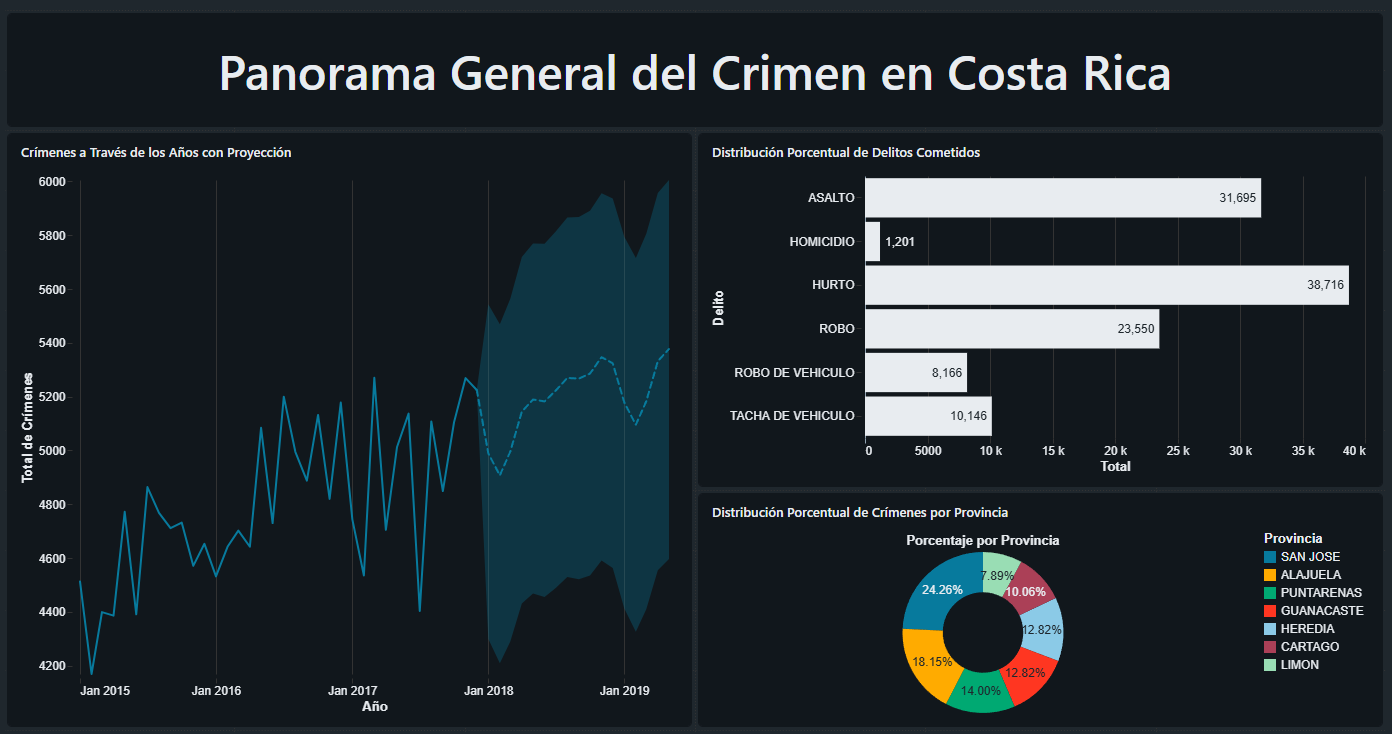
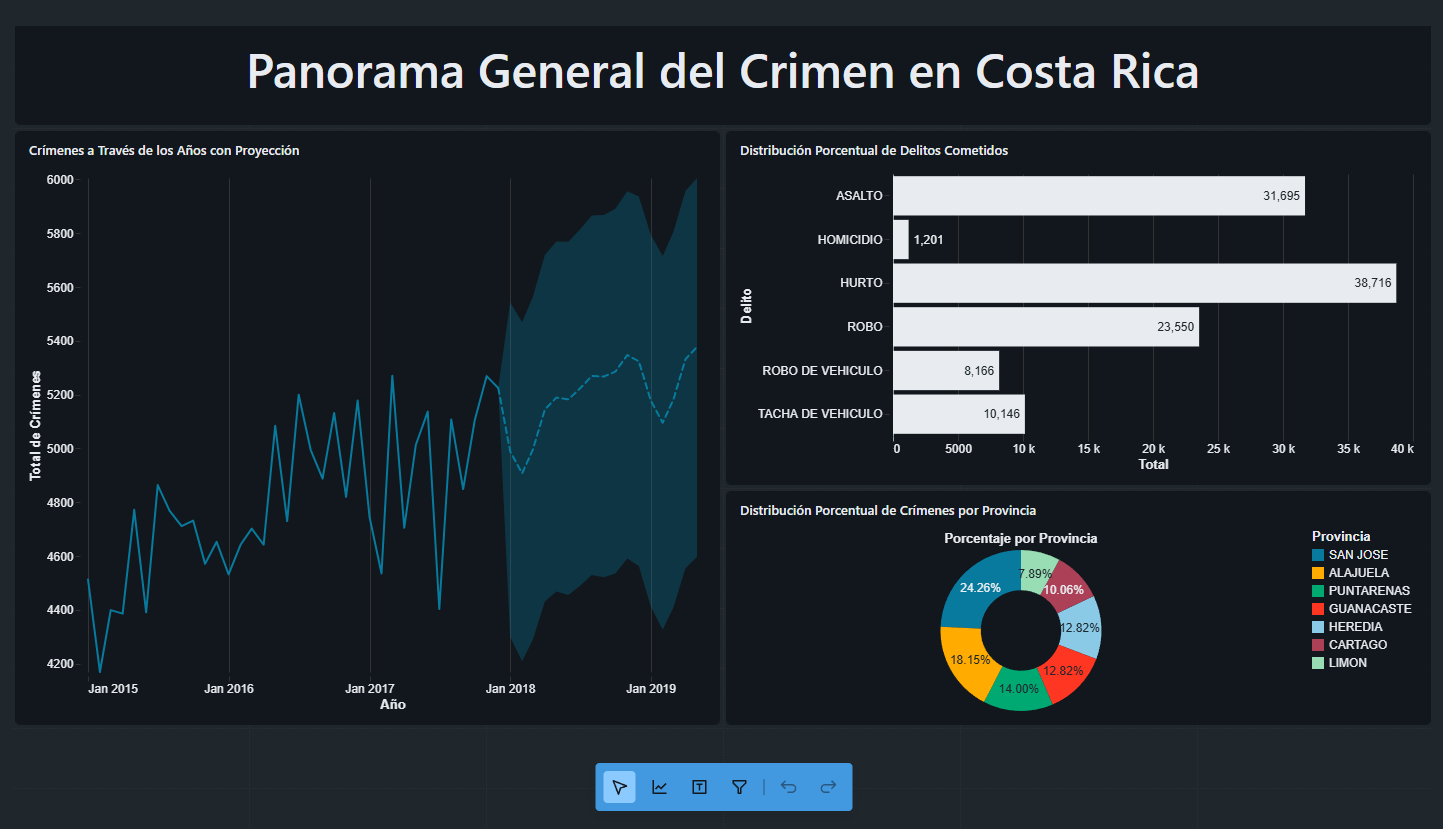
add business value to projects

diff --git a/app/data/projects.tsx b/app/data/projects.tsx
@@ -4,11 +4,18 @@ const projects = [
     title: 'Costa Rica Crime Analytics',
     description: 'Real-time crime data pipeline using Databricks Lakeflow Declarative Pipelines with Medallion Architecture for public safety insights.',
     long_description: 'A comprehensive data engineering solution built on Databricks that ingests, processes, and analyzes crime data from Costa Rica\'s OIJ. The platform implements a Medallion Architecture (Bronze-Silver-Gold) using Lakeflow Declarative Pipelines and Delta Live Tables for real-time streaming transformations. Features include automated data quality controls, materialized views for optimized analytics, and interactive dashboards showcasing time series forecasting, geographic crime distribution across provinces, and detailed modus operandi patterns to support data-driven public safety decisions.',
-    images: ['/projects/OIJ/Pipeline.png', '/projects/OIJ/Dashboard 1.png', '/projects/OIJ/Pipeline.png', '/projects/OIJ/Dashboard 2.png'],
+    images: ['/projects/OIJ/Pipeline.png', '/projects/OIJ/Dashboard 1.png', '/projects/OIJ/Dashboard 2.png'],
     thumbnail: '/projects/OIJ/thumbnail.jpg',
     github: 'https://github.com/RicardoVMon/oij-data-pipeline-dlp',
     link: 'https://your-databricks-workspace.com/crime-analytics-dashboard',
     technologies: ['Databricks', 'LDPs', 'SQL', 'Autoloader', 'PySpark'],
+    benefits: [
+      'Real-time crime pattern detection enabling faster emergency response',
+      'Geographic insights supporting optimal police resource deployment',
+      'Predictive analytics driving evidence-based public safety policies',
+      'Automated data quality controls ensuring reliable decision-making',
+      'Scalable streaming architecture supporting continuous data ingestion',
+    ]
   },
   {
     id: 'data-analysis-ai',
@@ -20,6 +27,13 @@ const projects = [
     github: 'https://github.com/yourusername/data-analysis-ai',
     link: 'https://your-demo-link.com/data-analysis-ai',
     technologies: ['Python', 'Streamlit', 'Pandas', 'NumPy', 'Scikit-learn', 'Gemini'],
+    benefits: [
+      'Automated data exploration accelerating business intelligence workflows',
+      'AI-driven insights reducing manual analysis time and human error',
+      'Interactive dashboards enabling real-time decision-making for stakeholders',
+      'Seamless data cleaning ensuring higher accuracy and consistency in reports',
+      'Scalable architecture supporting diverse datasets and analytical use cases',
+    ]
   },
   {
     id: 'healthcare-management',
@@ -31,6 +45,13 @@ const projects = [
     github: 'https://github.com/yourusername/healthcare-management',
     link: 'https://your-demo-link.com/healthcare-management',
     technologies: ['HTML', 'CSS', 'JavaScript', 'Bootstrap', '.NET Framework', 'SQL Server', 'Azure Cloud'],
+    benefits: [
+      'Centralized clinical data management improving operational efficiency',
+      'Automated workflows reducing administrative workload and record retrieval time',
+      'Secure cloud-based storage ensuring compliance and data integrity',
+      'Integrated reporting enabling data-driven financial and clinical decisions',
+      'Responsive design enhancing user experience across devices and roles',
+    ]
   },
   {
     id: 'school-it-inventory',

diff --git a/app/projects/[id]/page.tsx b/app/projects/[id]/page.tsx
@@ -23,6 +23,12 @@ export default function ProjectPage() {
     whileHover: { scale: 1.05 }
   }), []);
 
+  const benefitVariants = useMemo(() => ({
+    initial: { opacity: 0, x: -20 },
+    animate: { opacity: 1, x: 0 },
+    whileHover: { scale: 1.02 }
+  }), []);
+
   const images = useMemo(() => {
     if (!project) return [];
     return project.images.length > 1 ? project.images : [project.images[0]];
@@ -44,7 +50,6 @@ export default function ProjectPage() {
       </div>
     );
   }
-
 
   return (
     <main className="min-h-screen bg-gradient-to-b from-white to-blue-50">
@@ -115,6 +120,49 @@ export default function ProjectPage() {
         <section>
           <Carousel images={images} alt={project.title} />
         </section>
+
+        {/* Benefits Section - Same width as Carousel */}
+        {project.benefits && project.benefits.length > 0 && (
+          <section className="mb-16">
+            <motion.h2
+              {...fadeInUp}
+              transition={{ duration: 0.6, delay: 0.3 }}
+              className="text-2xl md:text-3xl font-semibold mb-8 text-gray-700 text-center"
+            >
+              Business Value Delivered
+            </motion.h2>
+            
+            <div className="w-full space-y-4">
+              {project.benefits.map((benefit, index) => (
+                <motion.div
+                  key={index}
+                  {...benefitVariants}
+                  transition={{ duration: 0.5, delay: index * 0.1 }}
+                  className="bg-white rounded-lg p-6 shadow-sm hover:shadow-md transition-all duration-200 border-l-4 border-gray-500"
+                >
+                  <div className="flex items-start gap-3">
+                    <div className="flex-shrink-0 w-6 h-6 bg-gray-100 rounded-full flex items-center justify-center mt-0.5">
+                      <svg
+                        className="w-3 h-3 text-blue-600"
+                        fill="currentColor"
+                        viewBox="0 0 20 20"
+                      >
+                        <path
+                          fillRule="evenodd"
+                          d="M16.707 5.293a1 1 0 010 1.414l-8 8a1 1 0 01-1.414 0l-4-4a1 1 0 011.414-1.414L8 12.586l7.293-7.293a1 1 0 011.414 0z"
+                          clipRule="evenodd"
+                        />
+                      </svg>
+                    </div>
+                    <p className="text-gray-700 leading-relaxed">
+                      {benefit}
+                    </p>
+                  </div>
+                </motion.div>
+              ))}
+            </div>
+          </section>
+        )}
       </div>
     </main>
   );

diff --git a/app/components/Carousel.tsx b/app/components/Carousel.tsx
@@ -91,7 +91,7 @@ export default function ProjectCarousel({
             type="button"
           >
             <svg
-              className="w-8 h-8 text-black drop-shadow group-hover:scale-110 transition-transform"
+              className="w-8 h-8 text-white drop-shadow group-hover:scale-110 transition-transform"
               fill="none"
               stroke="currentColor"
               strokeWidth={2.5}
@@ -107,7 +107,7 @@ export default function ProjectCarousel({
             type="button"
           >
             <svg
-              className="w-8 h-8 text-black drop-shadow group-hover:scale-110 transition-transform"
+              className="w-8 h-8 text-white drop-shadow group-hover:scale-110 transition-transform"
               fill="none"
               stroke="currentColor"
               strokeWidth={2.5}
